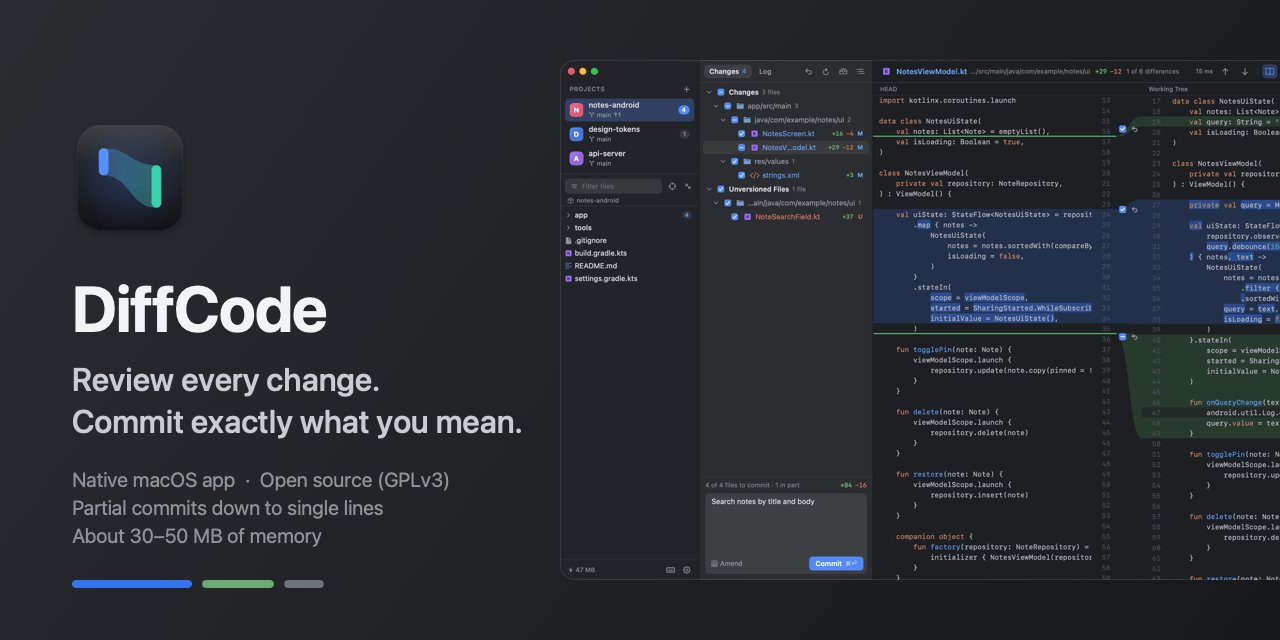
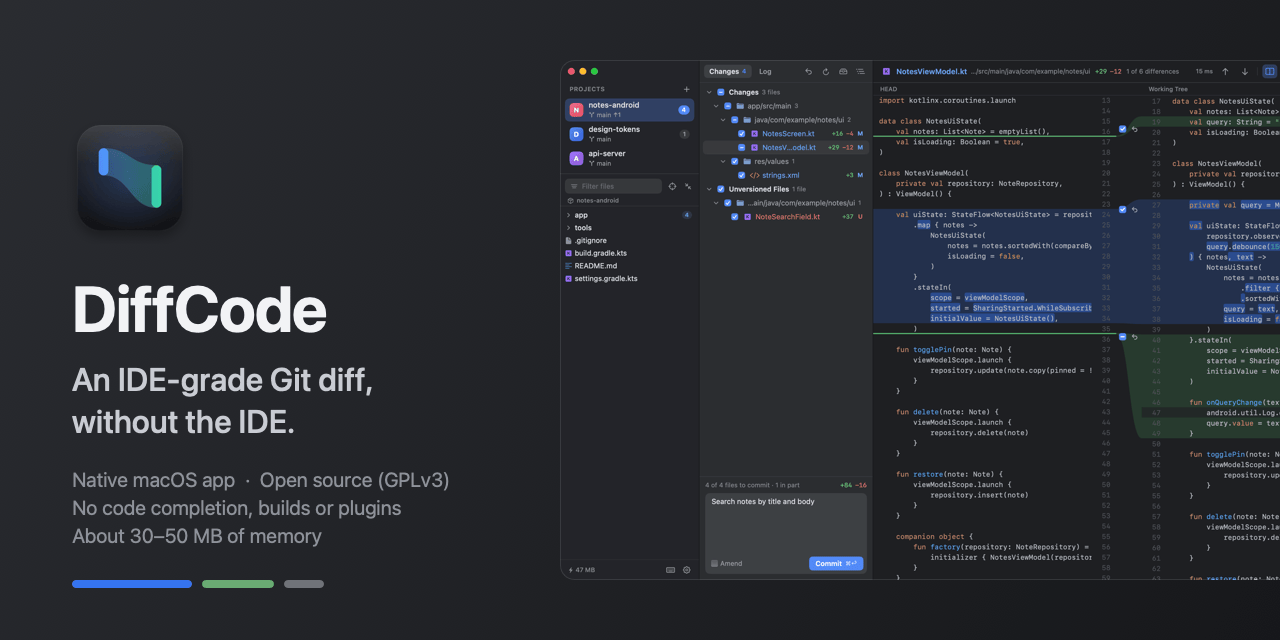
Lead the README with what DiffCode leaves out
An IDE shows diffs well, but it carries code completion, builds,
indexing and plugins along. Say so up front, and that DiffCode keeps
only what reviewing changes needs. The social preview card gets the
same tagline.

Changed region(s): [[0.0625, 0.5625, 0.4062, 0.6875], [0.0625, 0.7812, 0.3125, 0.8125]]

diff --git a/README.md b/README.md
@@ -5,8 +5,8 @@
 <h1 align="center">DiffCode</h1>
 
 <p align="center">
-  <b>Review every change. Commit exactly what you mean.</b><br>
-  A lightweight, native Git diff viewer for macOS, for your own work and your coding agent's.
+  <b>An IDE-grade Git diff, without the IDE.</b><br>
+  A lightweight native Mac app for reviewing what changed — yours, your teammates' or your coding agent's — and committing exactly what you mean.
 </p>
 
 <p align="center">
@@ -22,7 +22,7 @@
 
 ![DiffCode showing a side-by-side diff of a Kotlin file, with one line left out of the commit](docs/images/hero.png)
 
-Opening a whole IDE just to look at a diff costs gigabytes of memory and a long wait. DiffCode does that one job well: a clear side-by-side diff, a keyboard-driven workflow and precise commits, in a native app that typically uses **30–50 MB of memory**.
+Coding agents write more of the code now, and teammates keep pushing theirs, so more of the day goes to reading diffs. An IDE shows them well, but it brings code completion, builds, indexing and plugins along with it: a long wait and gigabytes of memory, just to see what changed. DiffCode keeps only what that job needs — a clear side-by-side diff, the Git history, precise commits and a terminal for your agent — in a native app that typically uses **30–50 MB of memory**.
 
 - **Read-only until you act.** Refreshing, diffing and searching never write to your repository or take `index.lock`, so DiffCode can stay open next to your IDE, your terminal and your agents.
 - **Fast on big files.** A 30,000-line diff with 800 changes opens in about 40 ms and scrolls at a fraction of a frame.

diff --git a/README.zh-CN.md b/README.zh-CN.md
@@ -5,8 +5,8 @@
 <h1 align="center">DiffCode</h1>
 
 <p align="center">
-  <b>看清每一处改动，只提交你想提交的。</b><br>
-  一个轻量的原生 macOS Git diff 工具，看你自己的改动，也看 coding agent 的。
+  <b>像 IDE 一样好用的 Git diff，不用打开 IDE。</b><br>
+  一个轻量的原生 Mac 应用：看清改了什么——你自己的、同事的，或者 coding agent 的——只提交你想提交的。
 </p>
 
 <p align="center">
@@ -22,7 +22,7 @@
 
 ![DiffCode 的并排 diff：一个 Kotlin 文件，其中一行不参与这次提交](docs/images/chinese.png)
 
-为了看一眼改动就启动整个 IDE，要等它加载，还要占掉几个 GB 内存。DiffCode 只做这一件事，并把它做好：清楚的并排 diff、全键盘操作、精确到行的提交。原生应用，平时只占 **30–50 MB 内存**。
+AI 写的代码越来越多，同事也在不停地推提交，每天花在看 diff 上的时间越来越长。IDE 当然能把改动看得很清楚，可它同时带着代码补全、编译、索引和一堆插件：打开要等，还要占掉几个 GB 内存，就为了看一眼改了什么。DiffCode 只留下看改动需要的核心功能：清楚的并排 diff、Git 树和历史、精确到行的提交，再加一个给 agent 用的终端。原生应用，平时只占 **30–50 MB 内存**。
 
 - **平时只读。** 刷新、diff、搜索都不写仓库，也不占 `index.lock`，可以和 IDE、命令行、agent 同时开着。
 - **大文件也快。** 3 万行、800 多处变更的 diff 约 40 ms 打开，滚动一帧的开销远低于刷新间隔。
